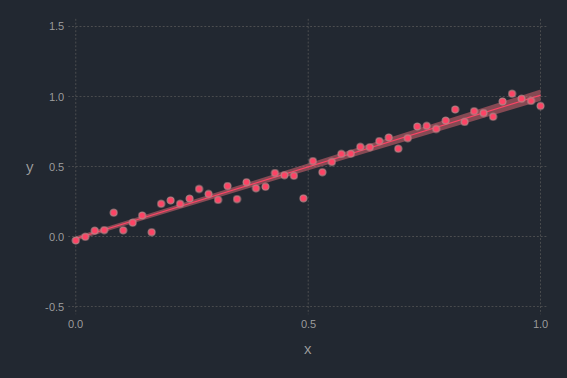
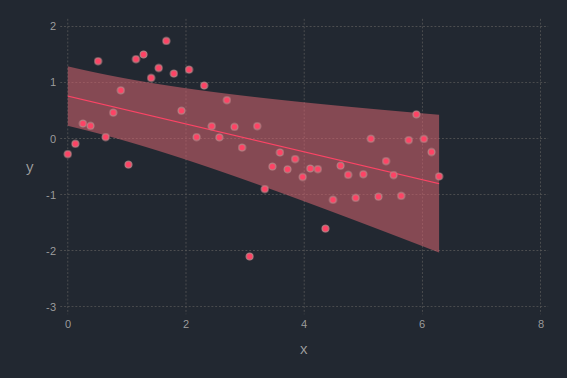
Fixed error in chi squared sweeping

diff --git a/README.md b/README.md
@@ -16,10 +16,10 @@ using Fitotron
 
 srand(42)
 const N = 50
-x = linspace(0,1,N) |> collect
-y = x + 0.05randn(N)
+x = linspace(0,2π,N) |> collect
+y = sin(x) + 0.5randn(N)
 
-fun(x,p) = p[1] + p[2]*x
+fun(x,p) = p[1] +p[2]*x
 fit = fitmodel(fun,x,y,[1,1])
 
 p = plotfit(fit)
@@ -34,13 +34,13 @@ And a `fit` a `FitResult` that shows like
 ```
 Fit results:
 ─────────────────────────────────────────────────────────
-Param. 1:                       -1.40e-02 ± 1.55e-02
-Param. 2:                       1.02e+00 ± 3.76e-02
-Reduced χ²:                     0.0030915027388933136
+Param. 1:                       7.57e-01 ± 5.31e-01
+Param. 2:                       -2.49e-01 ± 1.77e-01
+Reduced χ²:                     0.4950205376301822
 Parameter estimation method:    Nelder-Mead
 Uncertainty estimation method:  χ² sweeping (rescaled)
 ```
-in the REPL.
+in the REPL. A fit to a sine would be better, indeed.
 
 There are two posible invocations, for univariate and multivariate
 fits. Use `?fitmodel` to see the documentation.
